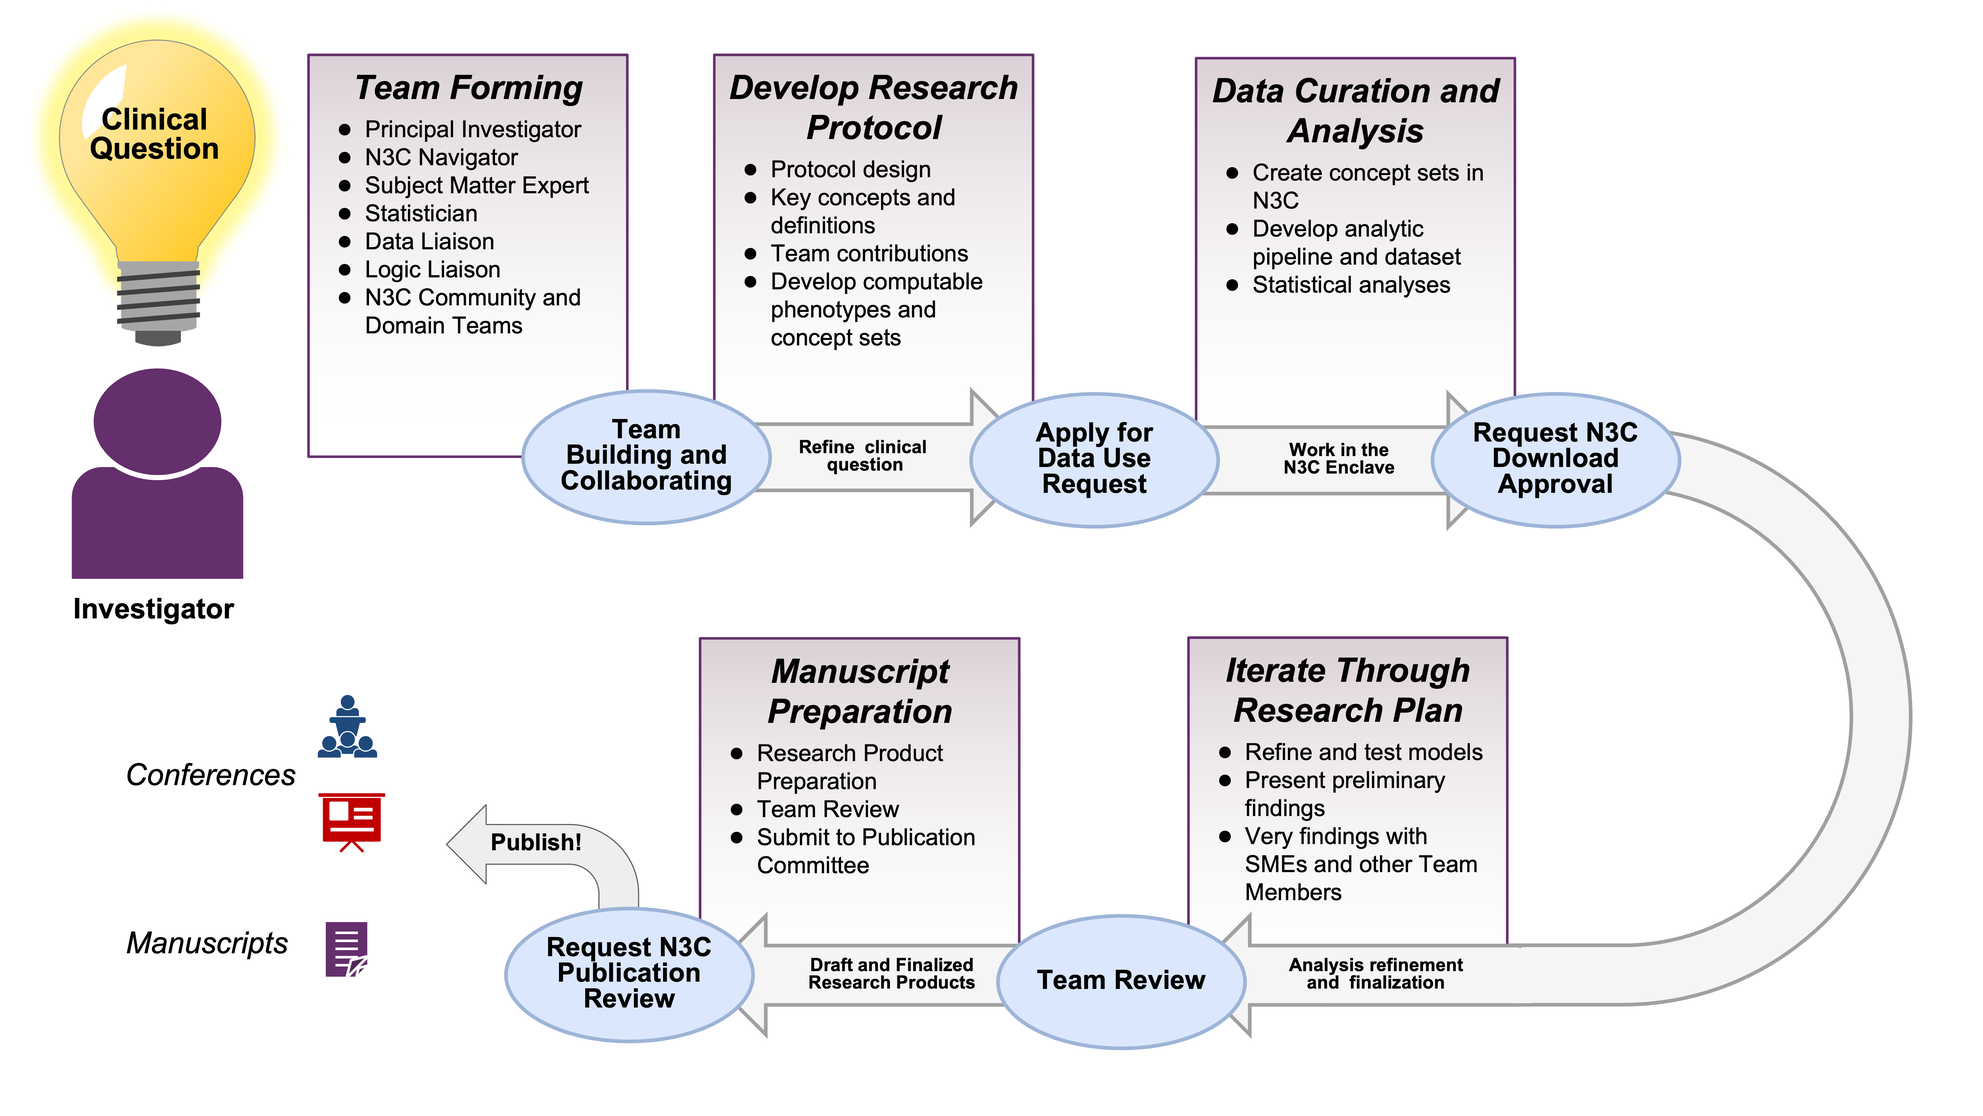
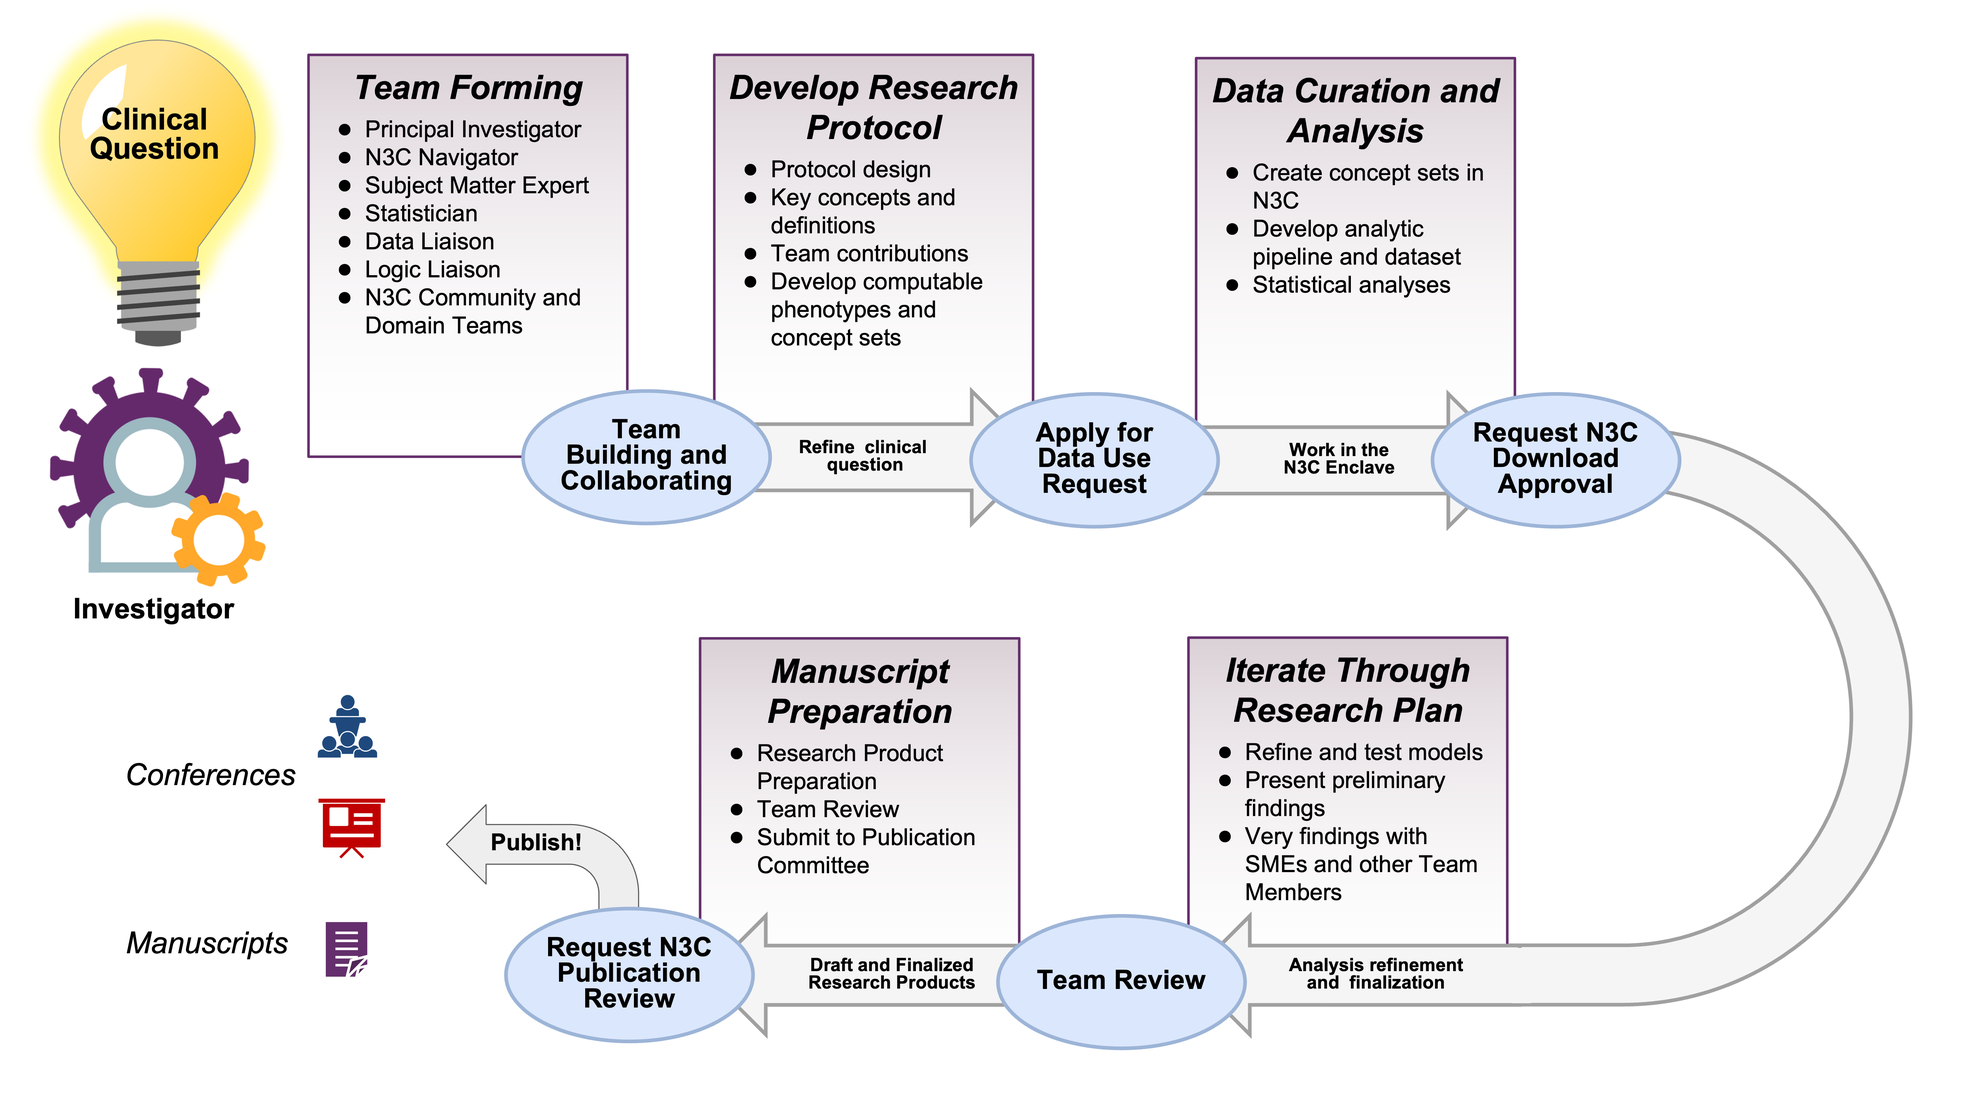
Updating chapter 2

Changed region(s): [[0.0, 0.3098, 0.156, 0.5267], [0.156, 0.7127, 0.1872, 0.7746]]

diff --git a/chapters/story.md b/chapters/story.md
@@ -43,11 +43,13 @@ Now that we have introduced N3C and described its motivation and importance, we'
 
 Suppose you are starting a project by yourself. In that case, the N3C ecosystem of researchers and resources is at your fingertips. You'll likely be able to recruit collaborators with complementary skills (in addition to N3C-wide resources such as [instructional material](support.md) and [office hours](support.md#sec-support-office)).  If you would like to join an existing project, there are [domain teams](onboarding.md#sec-onboarding-dt) and ongoing projects that likely will fit your interests and benefit from your abilities. @fig-story-010-intro-to-story provides a high-level overview of the path of a typical N3C project from clinical question to research product.
 
+Electronic Health Record (EHR) research has become an increasingly important tool to evaluate real-world evidence (RWE) to understand insights into treatment effectiveness, the impact of healthcare interventions, and our understanding of rare diseases. EHRs provide access to large, diverse patient populations and longitudinal data that allows observations of health changes over time or in cross-section. The strength of the EHR is that it reflects real-world care and is often a better representation of clinical care than the controlled settings of a traditional clinical trial. However, with this comes challenges of interpreting differences in care delivery, data standards, and merging expertise from clinical subject matter experts, clinical informaticists, biostatisticians and epidemiologists, medical terminologists, and other experts as healthcare data is linked with other health assets to move toward a more comprehensive representation of a patient’s lived experience relative their health outcomes. 
+
 :::{.callout-note icon=false}
 
 ## Voice of Narrator
 
-Our story begins in your office.  Your own piece of heaven.  As a researcher of scurvy, you have wondered, "do patients receiving the newest medications have more favorable covid outcomes than patients receiving the previous generation?".  Based on the meds' relationships with other diseases, you expect there to be a modest improvement.  But in order to detect a modest effect size, many patients are required, and your local institution's EMR doesn't have enough to meet the inclusion criteria.  In fact, no single institution's EMR has enough.
+Our story begins in your office. Your own piece of heaven. As a researcher of scurvy, you have wondered, “do patients receiving the newest medications have more favorable covid outcomes than patients receiving the previous generation?” Given that scurvy is a rare disease with no opportunities for industry funding, leaving the best option for studying it observational data from the EHR. You expect a modest improvement based on the meds’ relationships with other diseases. But many patients are required to detect a modest effect size, and your local institution has a small population. Given its low prevalence, no single institution would have a sufficient sample size to answer your research question. 
 
 Yesterday you attended a local N3C presentation and became interested because it likely has enough qualifying scurvy patients to detect even small signals.  Your mind wanders as you get a little greedy; additional hypotheses enter your daydream.  *Does the relationship attenuate as you move inland?*  You realize that a massive national dataset can not only better address your existing question, but it could also allow you to ask newer and more nuanced questions.  *Is the relationship more pronounced in other racial/ethnic groups?*  The stream persists throughout the night.
 :::
@@ -76,24 +78,41 @@ Hover over a footnote to see the popup, without jumping to the bottom of the pag
 * **I**: Umm, I think I got it.
 
 * **N**: It will make sense once you get it into it.  Skim the example DUR proposals I'm sending now.  Then start filling out this online form.  Get as far as you can, and then I'll help with the rest.  If there's something I don't know, I'll ask a friend.  The DUR application process will take about an hour.  Then the proposal will likely be approved within a week or two.  In the meantime, we can talk about potential collaborators.
+  
+* **I**: Is there anything else I need to know? 
+
+* **N**: The only other consideration at this point is whether your want your study to use Level 2 or Level 3 data. Level 2 data is fully de-identified, meaning all the dates are shifted by up to 180 days. Also, all location identifiers are obfuscated to allow potential reidentification, so you won’t have access to 5-digit ZIP Codes or other granular location measures. If you need either of those, you have to submit Level 3 data, which is a limited data set containing these data elements. Your institution requires an IRB protocol to submit a Level 3 DUR, so keep that in mind. 
+  
+*	**I**: Ok, that’s very helpful. I may need real dates as I anticipate differences in treatment deliveries based on real-world availability. Am I stuck with Level 2 data if I start there?
+
+*	**N**: No. If needed, you can request a workspace to be updated from Level 2 to Level 3 and receive IRB approval. 
+
+* **I**: That’s great. I think we’ll start with Level 2 and go from there. I’ll work on the research protocol. 
+
+After some thought, the investigator puts together a research protocol and submits a DUR in N3C. They submit the [DUR](access.md#sec-access-dur), shown in @fig-story-020-dur.
+
+![Submitted Data Use Request](images/story/fig-story-020-dur.png){#fig-story-020-dur fig-alt="Submitted Data Use Request"}
 
 ## Team building & collaborating {#sec-story-team}
 
-The next step is to build a team to leverage retrospective medical records.  Like most contemporary research teams, heterogenous skills are important.  Ideally a team has at least:
+The next step is to build a team to leverage retrospective medical records. Like most contemporary research teams, heterogenous skills are important. Ideally a team has at least, as shown in @fig-story-030-team-formation, members who can fill the roles below:
 
-1. a **navigator** who has learned the administrative and IRB requirements and is able to facilitate the investigation,
-1. a **data engineer** who understands the challenges of EMRs and is able to extract and transform information,
-1. a **statistician** who understands the limitations of observational collection and is able to model retrospective data,
-1. a **subject matter expert** (SME) who has clinical experience with the disease of interest and is able to inform decisions with EMR variables, and
-1. a **principal investigator** who knows the literature and is able form testable hypotheses and write the manuscript.
+1. a **navigator** who has learned the administrative and IRB requirements and can facilitate the investigation,
+1. a **subject matter expert** (SME) who has clinical experience with the disease of interest and can inform decisions with EHR variables,
+1. a **statistician or data scientist** who understands the limitations of observational collection and can model retrospective data,
+1. a **logic liaison or informatician** who understands the challenges of EHRs and can extract and transform information (also known as a data engineer),
+1. a **data liaison** who has expertise in medical terminology to help develop concept sets or identify previously validated concept sets, and
+1. a **principal investigator** who knows the literature and can testable hypotheses and write the manuscript.
+
+![Typical N3C Team Composition](images/story/fig-story-030-team-formation.png){#fig-story-030-team-formation fig-alt="Typical N3C Team Composition"}
 
 N3C teams have some differences from conventional research teams at single sites.  Some trends we have noticed are:
 
-1. Most N3C teams have researchers from at least three institutions.  In the experience of the authors and editors, this encourages more diverse opinions and more willingness to express constructive criticism.  Researchers from a single institution/lab are sometimes are more reluctant to generate contrary views.
+1. Most N3C teams have researchers from multiple institutions. In the experience of the authors and editors, this encourages more diverse opinions and more willingness to express constructive criticism. Researchers from a single institution/lab are sometimes more reluctant to generate contrary views.
 
-1. The role of navigator is even more important.  Your local EMR investigations are likely guided by someone with years of experience with the institutional safeguards and the personnel who can help when something stalls.  N3C is bigger and younger than your site's EMR research team, so an N3C project will benefit when guided by a bright, patient, and persistent navigator.
+1. The role of the navigator is often the most important member of a successful team. Your local investigations are likely guided by someone with years of experience with institutional safeguards and the personnel who can help when something stalls. N3C is bigger and younger than your site’s EHR research team, so an N3C project will benefit when guided by a bright, patient, and persistent navigator.
 
-If your team needs someone, consider asking a relevant [domain team](onboarding.md#sec-onboarding-dt) for helping identifying and approaching a potential collaborator.
+If your team needs someone, consider asking a relevant [domain team](onboarding.md#sec-onboarding-dt) for help identifying and approaching potential collaborators.
 
 :::{.callout-note icon=false}
 
@@ -110,33 +129,33 @@ Recruiting your crew...
 
 Three weeks later...
 
-Once the team is assembled, the first discussion is usually a variation of this exchange:
+Once the team is assembled, the first discussion is usually a variation of this exchange, with the goal to move toward competition of a research protocol:
 :::
 
 * **Investigator**: Welcome everyone.  We'd like to know if Drug A or Drug B is associated with better outcomes.
 * **Statistician**: No problem.  I can longitudinally model the type and amount of each medication received by each patient, relative to their intake date.
-* **Data Engineer**: Hmmm.  I'm happy to produce a dataset with the `dose` and `frequency` columns^[Read about the OMOP Standard Tables in @sec-understanding, specifically the medications are in the [`drug_exposure`](https://ohdsi.github.io/CommonDataModel/cdm60.html#DRUG_EXPOSURE) table.], but you may not find it useful.  Those two columns are sparsely populated and they look inconsistent across sites.^[Conformance is a topic in @sec-lifecycle.]
+* **Logic Liaisonr**: Hmmm.  I'm happy to produce a dataset with the `dose` and `frequency` columns^[Read about the OMOP Standard Tables in @sec-understanding, specifically the medications are in the [`drug_exposure`](https://ohdsi.github.io/CommonDataModel/cdm60.html#DRUG_EXPOSURE) table.], but you may not find it useful.  Those two columns are sparsely populated and they look inconsistent across sites.^[Conformance is a topic in @sec-lifecycle.]
 * **I**: Bummer.  Then what's realistic or feasible?
 * **Subject Matter Expert**: Maybe this simplifies the picture...  In my clinical experience, a patient rarely switches between Drugs A & B.  Based on the initial presentation, their provider will pick A *or* B, and complete the regimen unless there's an adverse event.
 * **St**: In that case, should my initial model have three levels for treatment: A, B, and A+B?
 * **I**: Probably.  In the N3C database, can someone tell me how many patients get both during the same visit?
-* **DE**: I'm already logged into the Enclave^[See @sec-access for accessing the N3C Enclave.].  Give me 2 minutes to whip up something in SQL.^[Read about SQL, Python, and R transforms in Code Workbooks in @sec-tools.]
+* **LL**: I'm already logged into the Enclave^[See @sec-access for accessing the N3C Enclave.].  Give me 2 minutes to whip up something in SQL.^[Read about SQL, Python, and R transforms in Code Workbooks in @sec-tools.]
 * **I**: Oh my goodness, is that your cat?  What a cutie! ^[There is a brief discussion of SME's cat.]
-* **DE** *after a few minutes*: Ok, I got it.  [Unmutes himself.]  Ok, I got it.  40% of patients are Drug A only, 52% are Drug B only, while 8% have at least one administration of both Drug A & B in the same visit.
+* **LL** *after a few minutes*: Ok, I got it.  [Unmutes himself.]  Ok, I got it.  40% of patients are Drug A only, 52% are Drug B only, while 8% have at least one administration of both Drug A & B in the same visit.
 * **SME**: Weird. 8% is a lot more than I expected.  I was thinking around 1%.
-* **DE**: Hmm, let me check.  Give me another minute.^[There is a brief discussion of S's daughter strutting in the background wearing a cowboy hat and waiving a fairy wand.]
-* **DE** *after a few minutes*: I see what you mean.  It looks like the bulk of the combo patients were admitted in the spring of 2020. After Jan 2021, only 3% of patients have both Drug A & B.
+* **LL**: Hmm, let me check.  Give me another minute.^[There is a brief discussion of S's daughter strutting in the background wearing a cowboy hat and waiving a fairy wand.]
+* **LL** *after a few minutes*: I see what you mean.  It looks like the bulk of the combo patients were admitted in the spring of 2020. After Jan 2021, only 3% of patients have both Drug A & B.
 * **St**: I was already planning to model the phase of the pandemic.  I'll test if there's a significant interaction between time and treatment.
 * **I**: I like that as a starting point.  Regarding the question about dose and frequency...  For now let's assume the providers were following the current dosing guidelines.  Therefore the `dose` and `frequency` variables can be dropped from the analyses.
 * **St**: Phew.  I didn't want to admit this.  But I skimmed the dosing guidelines you emailed yesterday.  It looked complicated.  I wasn't sure if I could appropriately incorporate those variables in the model.
 * **I**: Well, that's everything I wanted to cover today.  See you in two weeks.  Wait.  I can't believe I forgot.  Sorry -our Navigator is sick this week and I'm almost worthless in her absence.  Is everyone still on the call?  For our secondary hypothesis, we want everything to connect  to a patient's diagnoses.  ...before, during, and after their covid hospitalization.
-* **DE**: Bad news.  This is kinda like the `dose` and `frequency` situation a few minutes ago. The structure of the [OMOP diagnosis table](https://ohdsi.github.io/CommonDataModel/cdm60.html#CONDITION_OCCURRENCE) theoretically can connect a patient's diagnoses across different locations.  But the quality of the historical records really depends on the site.  Some places like Delaware leverage their state's HIE^[An [HIE](https://www.healthit.gov/topic/health-it-and-health-information-exchange-basics/health-information-exchange) is a health information exchange.] to populate their N3C dataset.  However other places are not as well connected.  If a patient doesn't have diagnosis records, it's tough to determine if they are healthy, or if their primary care provider uses a siloed EMR.^[The benefits and caveats of real-world data are a theme throughout the book, particularly in the best practices discussed in @sec-practices.]
+* **LL**: Bad news.  This is kinda like the `dose` and `frequency` situation a few minutes ago. The structure of the [OMOP diagnosis table](https://ohdsi.github.io/CommonDataModel/cdm60.html#CONDITION_OCCURRENCE) theoretically can connect a patient's diagnoses across different locations.  But the quality of the historical records really depends on the site.  Some places like Rhode Island leverage their state's HIE^[An [HIE](https://www.healthit.gov/topic/health-it-and-health-information-exchange-basics/health-information-exchange) is a health information exchange.] to populate their N3C dataset.  However other places are not as well connected.  If a patient doesn't have diagnosis records, it's tough to determine if they are healthy, or if their primary care provider uses a siloed EMR.^[The benefits and caveats of real-world data are a theme throughout the book, particularly in the best practices discussed in @sec-practices.]
 * **I**: Ugh.  Good point.
-* **DE**: But I've got good news.  All the N3C contributors comprehensively capture all conditions diagnosed *during* the visit.  Furthermore the diagnosis codes are standardized really well across sites.  That's because all the providers enter ICD codes into the EMR, which eventually can be cleanly mapped to OMOP's standard concepts.^[Authoring and using concept sets are described in @sec-understanding.  Mapping an ICD to SNOMED diagnosis code is an example of mapping a "non-standard" to a "standard" concept, discussed in @sec-understanding.]
+* **LL**: But I've got good news.  All the N3C contributors comprehensively capture all conditions diagnosed *during* the visit.  Furthermore the diagnosis codes are standardized really well across sites.  That's because all the providers enter ICD codes into the EMR, which eventually can be cleanly mapped to OMOP's standard concepts.^[Authoring and using concept sets are described in @sec-understanding.  Mapping an ICD to SNOMED diagnosis code is an example of mapping a "non-standard" to a "standard" concept, discussed in @sec-understanding.]
 * **I**: Well, that's fine for this paper.  Maybe our next manuscript will follow up with N3C's death records.^[TODO: is the book planning to have a section on the CMS & death records?]
 * **SME**: Sorry everybody, I have clinic this week, and they're calling me.  I need to drop.^[Everyone says goodbye to the cat.]
 * **St**: Can I go back and ask a question about medications?  I see that Drug A has 15 different brand names.  I don't recognize half of them.  How should I classify them?
-* **DE**: It's actually worse than that.  Sorry I'm a downer today.  Can you see my screen?  Drug A has 15 brand names and 200 different RxNorm codes; each package is uniquely identified by the NIH's NLM.  SME and I started on a concept set Thursday.  We're operationalizing the drug classes by their [RxNorm](https://www.nlm.nih.gov/research/umls/rxnorm/docs/appendix5.html) ingredient.  There are five ingredients that are conceptualized as Drug A.  A friend showed me how she used the OMOP tables in a different project.^[The [`concept_relationship`](https://ohdsi.github.io/CommonDataModel/cdm60.html#CONCEPT_RELATIONSHIP) table is discussed with the OMOP concept hierarchy in @sec-understanding.]  I'll roll up the meds into the patient-level dataset.  It will have one integer for the number of medication records tied to a Drug A ingredient and another integer for Drug B records.  You'll probably want to transform the two counts into two booleans.
+* **LL**: It's actually worse than that.  Sorry I'm a downer today.  Can you see my screen?  Drug A has 15 brand names and 200 different RxNorm codes; each package is uniquely identified by the NIH's NLM.  SME and I started on a concept set Thursday.  We're operationalizing the drug classes by their [RxNorm](https://www.nlm.nih.gov/research/umls/rxnorm/docs/appendix5.html) ingredient.  There are five ingredients that are conceptualized as Drug A.  A friend showed me how she used the OMOP tables in a different project.^[The [`concept_relationship`](https://ohdsi.github.io/CommonDataModel/cdm60.html#CONCEPT_RELATIONSHIP) table is discussed with the OMOP concept hierarchy in @sec-understanding.]  I'll roll up the meds into the patient-level dataset.  It will have one integer for the number of medication records tied to a Drug A ingredient and another integer for Drug B records.  You'll probably want to transform the two counts into two booleans.
 * **St**: And if I change my mind and decide to use the counts, then at least I'll know.
 * **Shoreleave**: and knowing is half the battle.
 
@@ -146,7 +165,7 @@ This aspect of the scientific process is probably both the most familiar and mos
 
 1. Tradeoffs are inevitable when selecting variables.  Rarely will an investigator's first choice be available.
 
-1. Retrospective medical records are extracted from a larger dataset.  An investigation can use only a fraction of the terabytes in an EMR.  Many decisions are involved to include only the relevant variables among the qualifying patients.
+1. Retrospective medical records are extracted from a larger dataset.  An investigation can use only a fraction of the terabytes in an EHR.  Many decisions are involved to include only the relevant variables among the qualifying patients.
 
 {Mention CD2H's [Informatics Playbook](https://playbook.cd2h.org/en/latest/index.html)}
 
